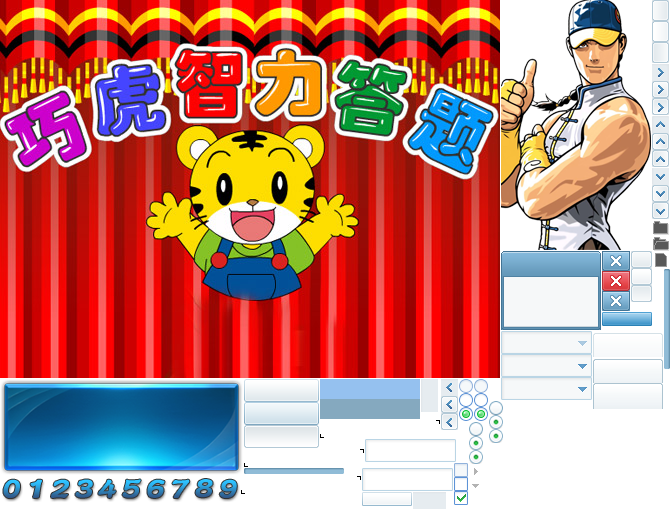
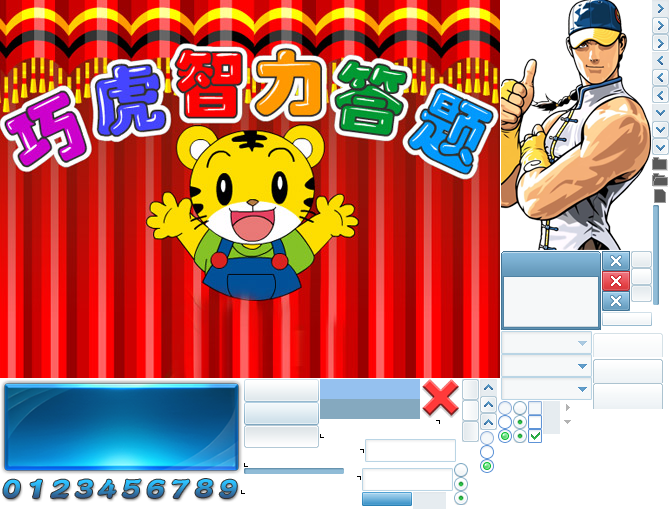
测试场景切换

diff --git a/Answer/src/ui/layaUI.max.all.ts b/Answer/src/ui/layaUI.max.all.ts
@@ -2,11 +2,28 @@
 import View=laya.ui.View;
 import Dialog=laya.ui.Dialog;
 module ui {
+    export class GameUI extends View {
+		public BtnClose:Laya.Button;
+
+        public static  uiView:any ={"type":"View","props":{"width":1280,"height":720},"child":[{"type":"Image","props":{"width":1280,"skin":"comp/1.jpg","height":720}},{"type":"Button","props":{"y":607,"x":1173,"width":40,"var":"BtnClose","stateNum":1,"skin":"comp/common009.png","sizeGrid":"0,0,0,0","height":40}},{"type":"Text","props":{"y":64,"x":458,"width":400,"text":"我是游戏主场景","height":50,"fontSize":40,"color":"#ffffff"}}]};
+        constructor(){ super()}
+        createChildren():void {
+        			View.regComponent("Text",laya.display.Text);
+
+            super.createChildren();
+            this.createView(ui.GameUI.uiView);
+
+        }
+
+    }
+}
+
+module ui {
     export class GameStartUI extends View {
 		public ImgBg:Laya.Image;
 		public BtnStart:Laya.Button;
 
-        public static  uiView:any ={"type":"View","props":{"width":1280,"height":720},"child":[{"type":"Panel","props":{"width":1280,"height":720},"child":[{"type":"Image","props":{"y":0,"x":389,"width":500,"var":"ImgBg","skin":"comp/71726.jpg","height":378}},{"type":"Button","props":{"y":308,"x":510,"width":243,"var":"BtnStart","stateNum":1,"skin":"comp/common049.png","sizeGrid":"15,0,5,0","label":"开始","height":57}}]}]};
+        public static  uiView:any ={"type":"View","props":{"width":1280,"height":720},"child":[{"type":"Panel","props":{"y":0,"x":0,"width":1280,"height":720},"child":[{"type":"Image","props":{"y":-2,"x":-26,"width":1280,"var":"ImgBg","skin":"comp/71726.jpg","pivotY":-8,"pivotX":-28,"height":720}},{"type":"Button","props":{"y":621,"x":520,"width":243,"var":"BtnStart","stateNum":1,"skin":"comp/common049.png","sizeGrid":"15,0,5,0","label":"开始","height":57}}]}]};
         constructor(){ super()}
         createChildren():void {
         

diff --git a/Answer/bin/js/src/ui/layaUI.max.all.js b/Answer/bin/js/src/ui/layaUI.max.all.js
@@ -22,7 +22,7 @@ var ui;
             _super.prototype.createChildren.call(this);
             this.createView(ui.GameUI.uiView);
         };
-        GameUI.uiView = { "type": "View", "props": { "width": 1280, "height": 720 }, "child": [{ "type": "Image", "props": { "width": 1280, "skin": "comp/1.jpg", "height": 720 } }, { "type": "Text", "props": { "y": 64, "x": 458, "width": 400, "text": "我是游戏主场景", "height": 50, "fontSize": 40, "color": "#ffffff" } }] };
+        GameUI.uiView = { "type": "View", "props": { "width": 1280, "height": 720 }, "child": [{ "type": "Image", "props": { "width": 1280, "skin": "comp/1.jpg", "height": 720 } }, { "type": "Button", "props": { "y": 607, "x": 1173, "width": 40, "var": "BtnClose", "skin": "comp/common009.png", "sizeGrid": "0,0,0,0", "height": 40 } }, { "type": "Text", "props": { "y": 64, "x": 458, "width": 400, "text": "我是游戏主场景", "height": 50, "fontSize": 40, "color": "#ffffff" } }] };
         return GameUI;
     }(View));
     ui.GameUI = GameUI;

diff --git a/Answer/src/LayaSample.ts b/Answer/src/LayaSample.ts
@@ -1,9 +1,30 @@
 // 程序入口
-class GameMain{
-    constructor()
-    {
-        Laya.init(1280,720);
-        
+//import gameStartui=ui.GameStartUI;
+class GameMain {
+    constructor() {
+        Laya.init(1280, 720);
+        Laya.loader.load([{ url: "res/atlas/comp.atlas" }], Laya.Handler.create(this, this.onloaded));
+    }
+
+    public gamePage: ui.GameUI;
+    private bgPage: ui.GameStartUI;
+    public game: Game;
+    private onloaded(): void {
+        this.bgPage = new ui.GameStartUI();
+        this.gamePage = new ui.GameUI();
+        this.game = new Game();
+        console.log(1111);
+        Laya.stage.addChild(this.bgPage);
+        this.Oninit(this.bgPage);
+    }
+
+    private Oninit(itemdata: ui.GameStartUI): void {
+        itemdata.BtnStart.on(Laya.Event.CLICK, this, this.OnBtnStartClick);
+    }
+
+    private OnBtnStartClick(): void {
+        console.log("点击了开始");
+        this.game.InitGame(this.gamePage, this.bgPage);
     }
 }
 new GameMain();

diff --git a/Answer/bin/js/src/LayaSample.js b/Answer/bin/js/src/LayaSample.js
@@ -8,6 +8,7 @@ var GameMain = /** @class */ (function () {
     GameMain.prototype.onloaded = function () {
         this.bgPage = new ui.GameStartUI();
         this.gamePage = new ui.GameUI();
+        this.game = new Game();
         console.log(1111);
         Laya.stage.addChild(this.bgPage);
         this.Oninit(this.bgPage);
@@ -17,12 +18,7 @@ var GameMain = /** @class */ (function () {
     };
     GameMain.prototype.OnBtnStartClick = function () {
         console.log("点击了开始");
-        this.InitGame(this.gamePage, this.bgPage);
-    };
-    GameMain.prototype.InitGame = function (itemGame, ItemOpen) {
-        console.log("显示游戏面板");
-        Laya.stage.addChild(itemGame);
-        Laya.stage.removeChild(ItemOpen);
+        this.game.InitGame(this.gamePage, this.bgPage);
     };
     return GameMain;
 }());

diff --git a/Answer/bin/js/Game.js b/Answer/bin/js/Game.js
@@ -1,0 +1,15 @@
+var Game = /** @class */ (function () {
+    function Game() {
+    }
+    Game.prototype.InitGame = function (itemGame, ItemOpen) {
+        console.log("显示游戏面板" + itemGame.BtnClose.name);
+        Laya.stage.addChild(itemGame);
+        Laya.stage.removeChild(ItemOpen);
+        itemGame.BtnClose.on(Laya.Event.CLICK, this, this.OnBtnCloseClick);
+    };
+    Game.prototype.OnBtnCloseClick = function () {
+        console.log("关闭游戏");
+    };
+    return Game;
+}());
+//# sourceMappingURL=Game.js.map

diff --git a/Answer/Game.ts b/Answer/Game.ts
@@ -1,0 +1,14 @@
+
+class Game {
+
+    public InitGame(itemGame: ui.GameUI, ItemOpen: ui.GameStartUI): void {
+        console.log("显示游戏面板" + itemGame.BtnClose.name);
+        Laya.stage.addChild(itemGame);
+        Laya.stage.removeChild(ItemOpen);
+        itemGame.BtnClose.on(Laya.Event.CLICK, this, this.OnBtnCloseClick);
+    }
+
+    private OnBtnCloseClick(): void {
+        console.log("关闭游戏");
+    }
+}

diff --git a/Answer/bin/index.html b/Answer/bin/index.html
@@ -45,6 +45,7 @@
 	<!--自定义的js(src文件夹下)文件自动添加到下面jsfile模块标签里面里-->
 	<!--删除标签，ide不会自动添加js文件，请谨慎操作-->
 	<!--jsfile--startTag-->
+	<script src="js/UIMgr.js"></script>
 	<script src="js/ui/layaUI.max.all.js"></script>
 	<!--jsfile--endTag-->
 

diff --git a/Answer/bin/js/UIMgr.js b/Answer/bin/js/UIMgr.js
@@ -1,0 +1,9 @@
+/*
+* name;
+*/
+var UIMgr = /** @class */ (function () {
+    function UIMgr() {
+    }
+    return UIMgr;
+}());
+//# sourceMappingURL=UIMgr.js.map

diff --git a/Answer/bin/js/src/UIMgr.js b/Answer/bin/js/src/UIMgr.js
@@ -1,0 +1,9 @@
+/*
+* name;
+*/
+var UIMgr = /** @class */ (function () {
+    function UIMgr() {
+    }
+    return UIMgr;
+}());
+//# sourceMappingURL=UIMgr.js.map

diff --git a/Answer/src/UIMgr.ts b/Answer/src/UIMgr.ts
@@ -1,0 +1,9 @@
+/*
+* name;
+*/
+class UIMgr{
+    constructor(){
+
+    }
+    
+}
